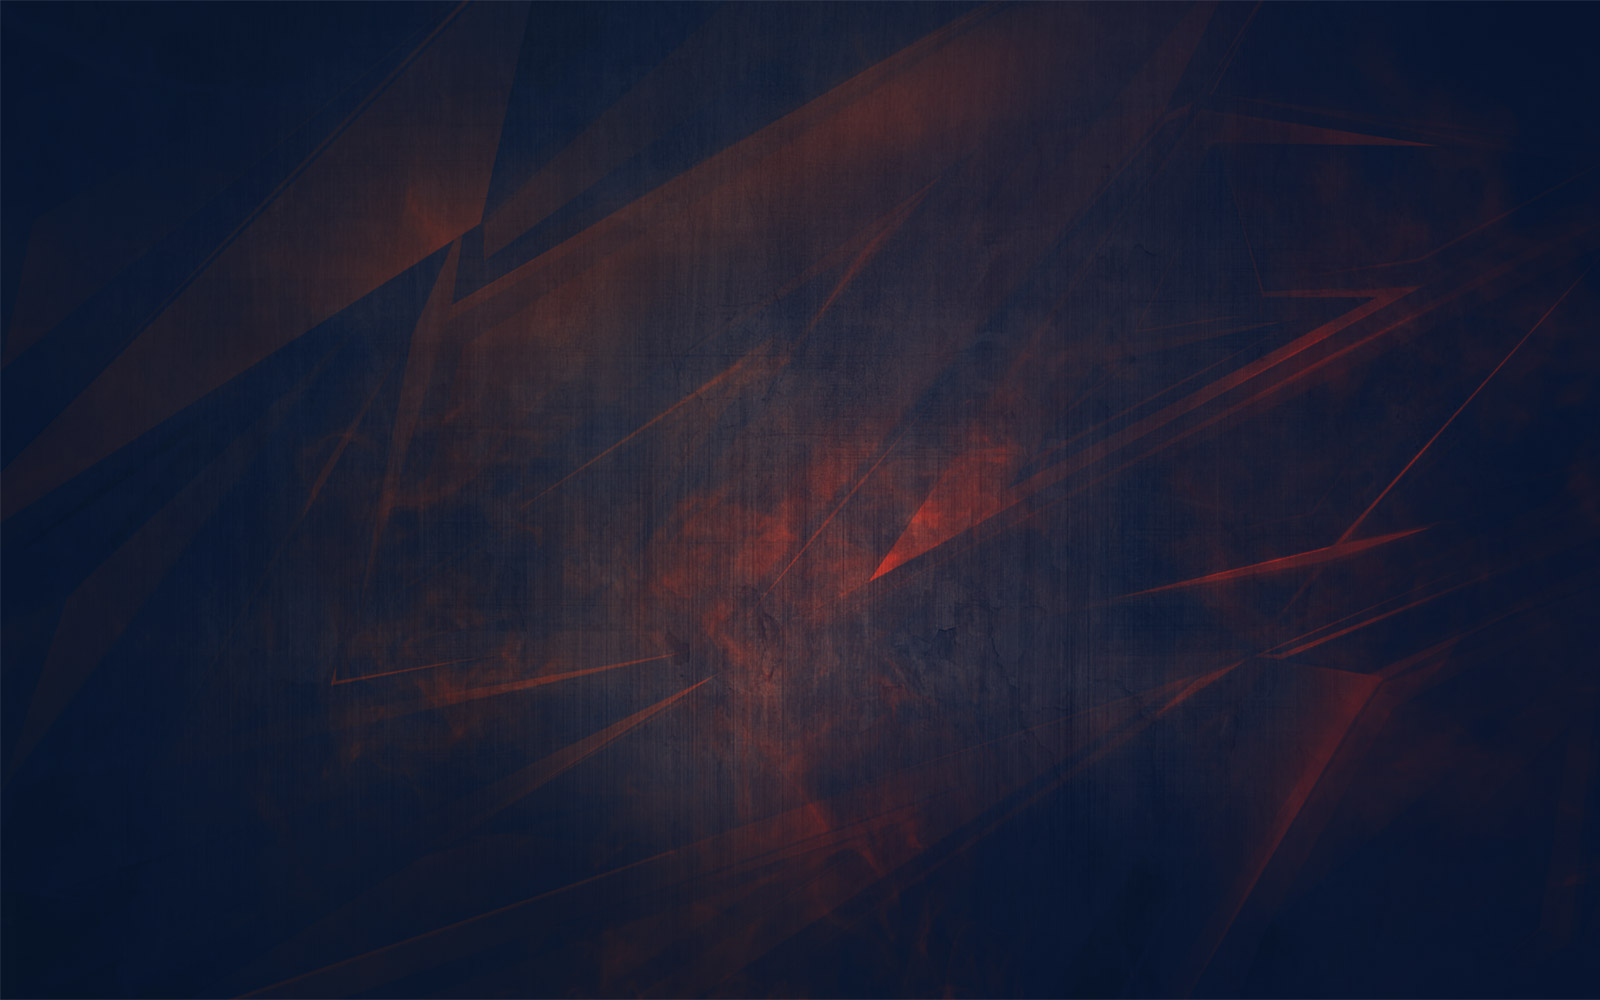
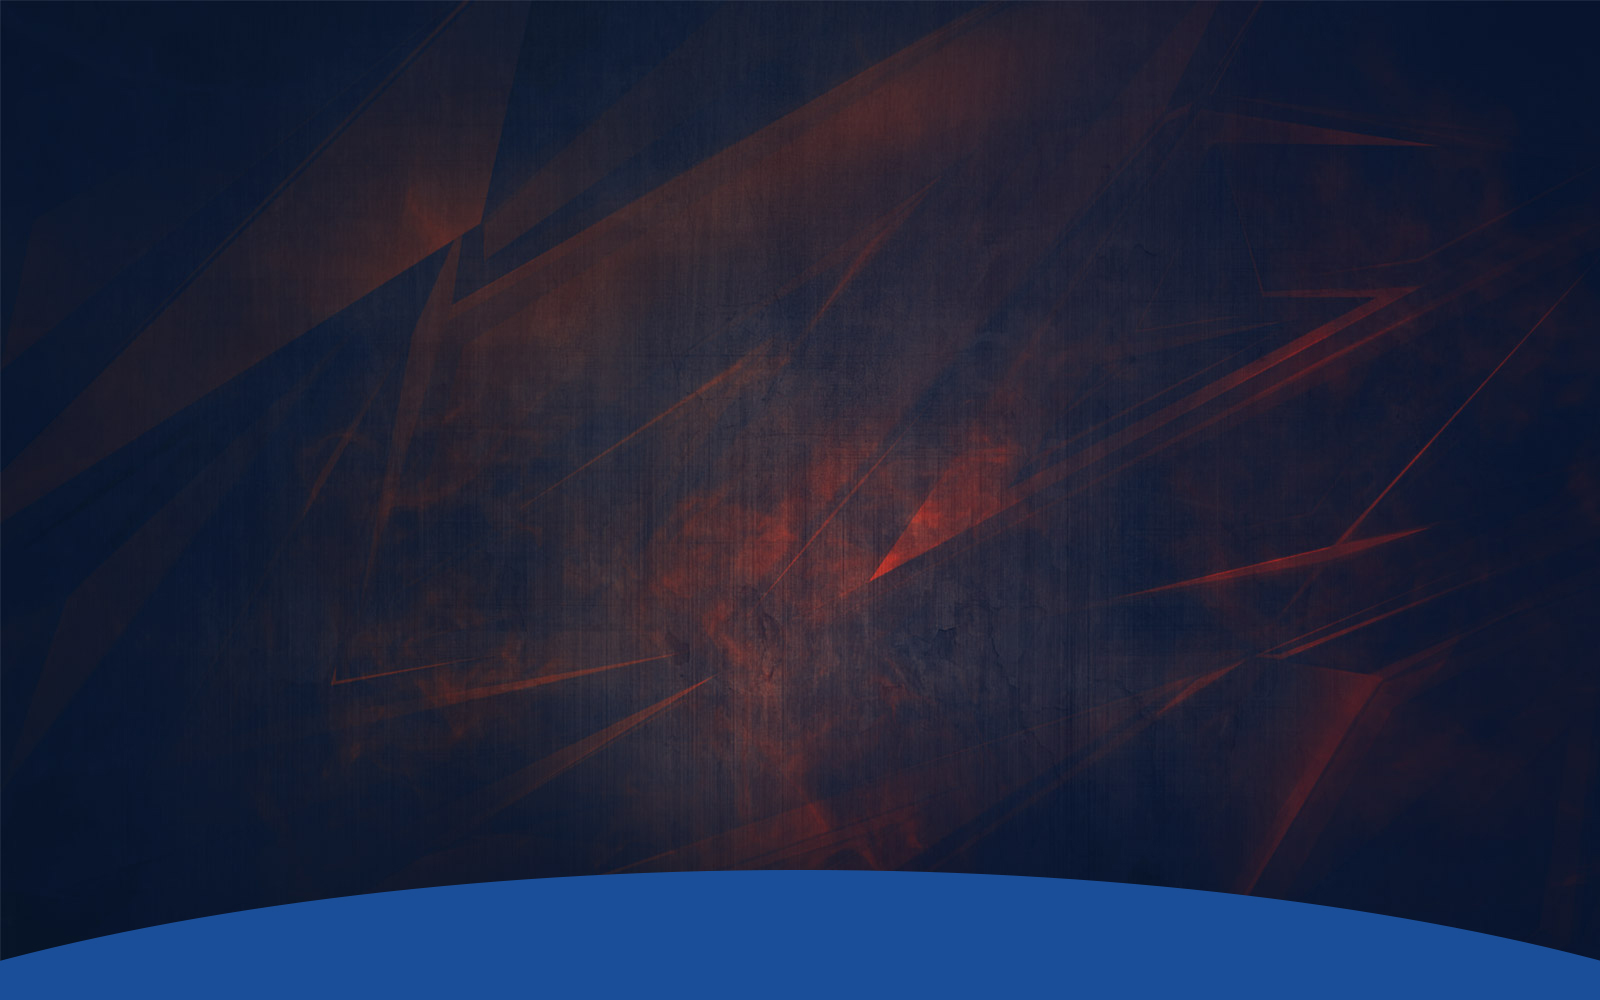
todays work

Changed region(s): [[0.0, 0.868, 1.0, 1.0]]

diff --git a/index.html b/index.html
@@ -55,32 +55,36 @@
       /* First section START */
       #first {
         background-image: url(pics/hero.jpg);
+        background-size: contain;
+        background-repeat: no-repeat;
+        background-position: bottom;
         width: 100%;
         position: relative;
-        min-height: 100vh;
+        min-height: 90vh;
         overflow: hidden;
       }
 
       #first .wrapper {
         display: grid;
-        grid-template-columns: 1fr 1fr 1fr 1fr 1fr;
-        height: 100vh;
+        grid-template-columns: 1fr 1fr 1fr 1fr 1fr 1fr 1fr;
+        /* height: 100vh; */
       }
 
       .left {
         justify-content: center;
-        grid-column: span 3;
+        grid-column: span 4;
         align-self: center;
       }
 
       .content {
-        width: 60%;
+        width: 70%;
         margin: 0 auto;
+        margin-bottom: 100px;
       }
 
       .left h1 {
         color: #e69a71;
-        font-size: 2em;
+        font-size: 2.5em;
         font-family: "Shentox";
         margin-bottom: 15px;
         font-weight: normal;
@@ -88,7 +92,7 @@
 
       .left h2 {
         color: white;
-        font-size: 2.9em;
+        font-size: 4em;
         font-family: "Shentox";
         font-style: italic;
         font-weight: normal;
@@ -122,25 +126,16 @@
         position: absolute;
         transform: translate(-50%, -50%);
         left: 40%;
-        top: 50%;
+        width: 100%;
       }
       .right img {
         z-index: 10;
-        width: 70%;
-        left: 40.5%;
-      }
 
-      #first::after {
-        background-color: var(--blue);
-        border-bottom-left-radius: 60% 150px;
-        border-bottom-right-radius: 60% 150px;
-        position: absolute;
-        bottom: -1%;
-        content: "";
-        width: 120%;
-        height: 150px;
-        transform: rotate(180deg);
-        right: -10%;
+        left: 40.5%;
+        top: 50%;
+      }
+      .right svg {
+        top: 20%;
       }
 
       /* First section END */
@@ -157,7 +152,9 @@
           <div class="content">
             <h1>Konkurrence:</h1>
             <h2>
-              Test din reaktionstid, og vind en tur til CS:GO major i berlin
+              Test din reaktionstid, <br />
+              og vind en tur til CS:GO <br />
+              major i berlin
             </h2>
             <button>GO!</button>
           </div>
@@ -167,8 +164,6 @@
           <svg
             id="logo"
             xmlns="http://www.w3.org/2000/svg"
-            width="307.1"
-            height="372.81"
             viewBox="0 0 307.1 372.81"
           >
             <defs>
